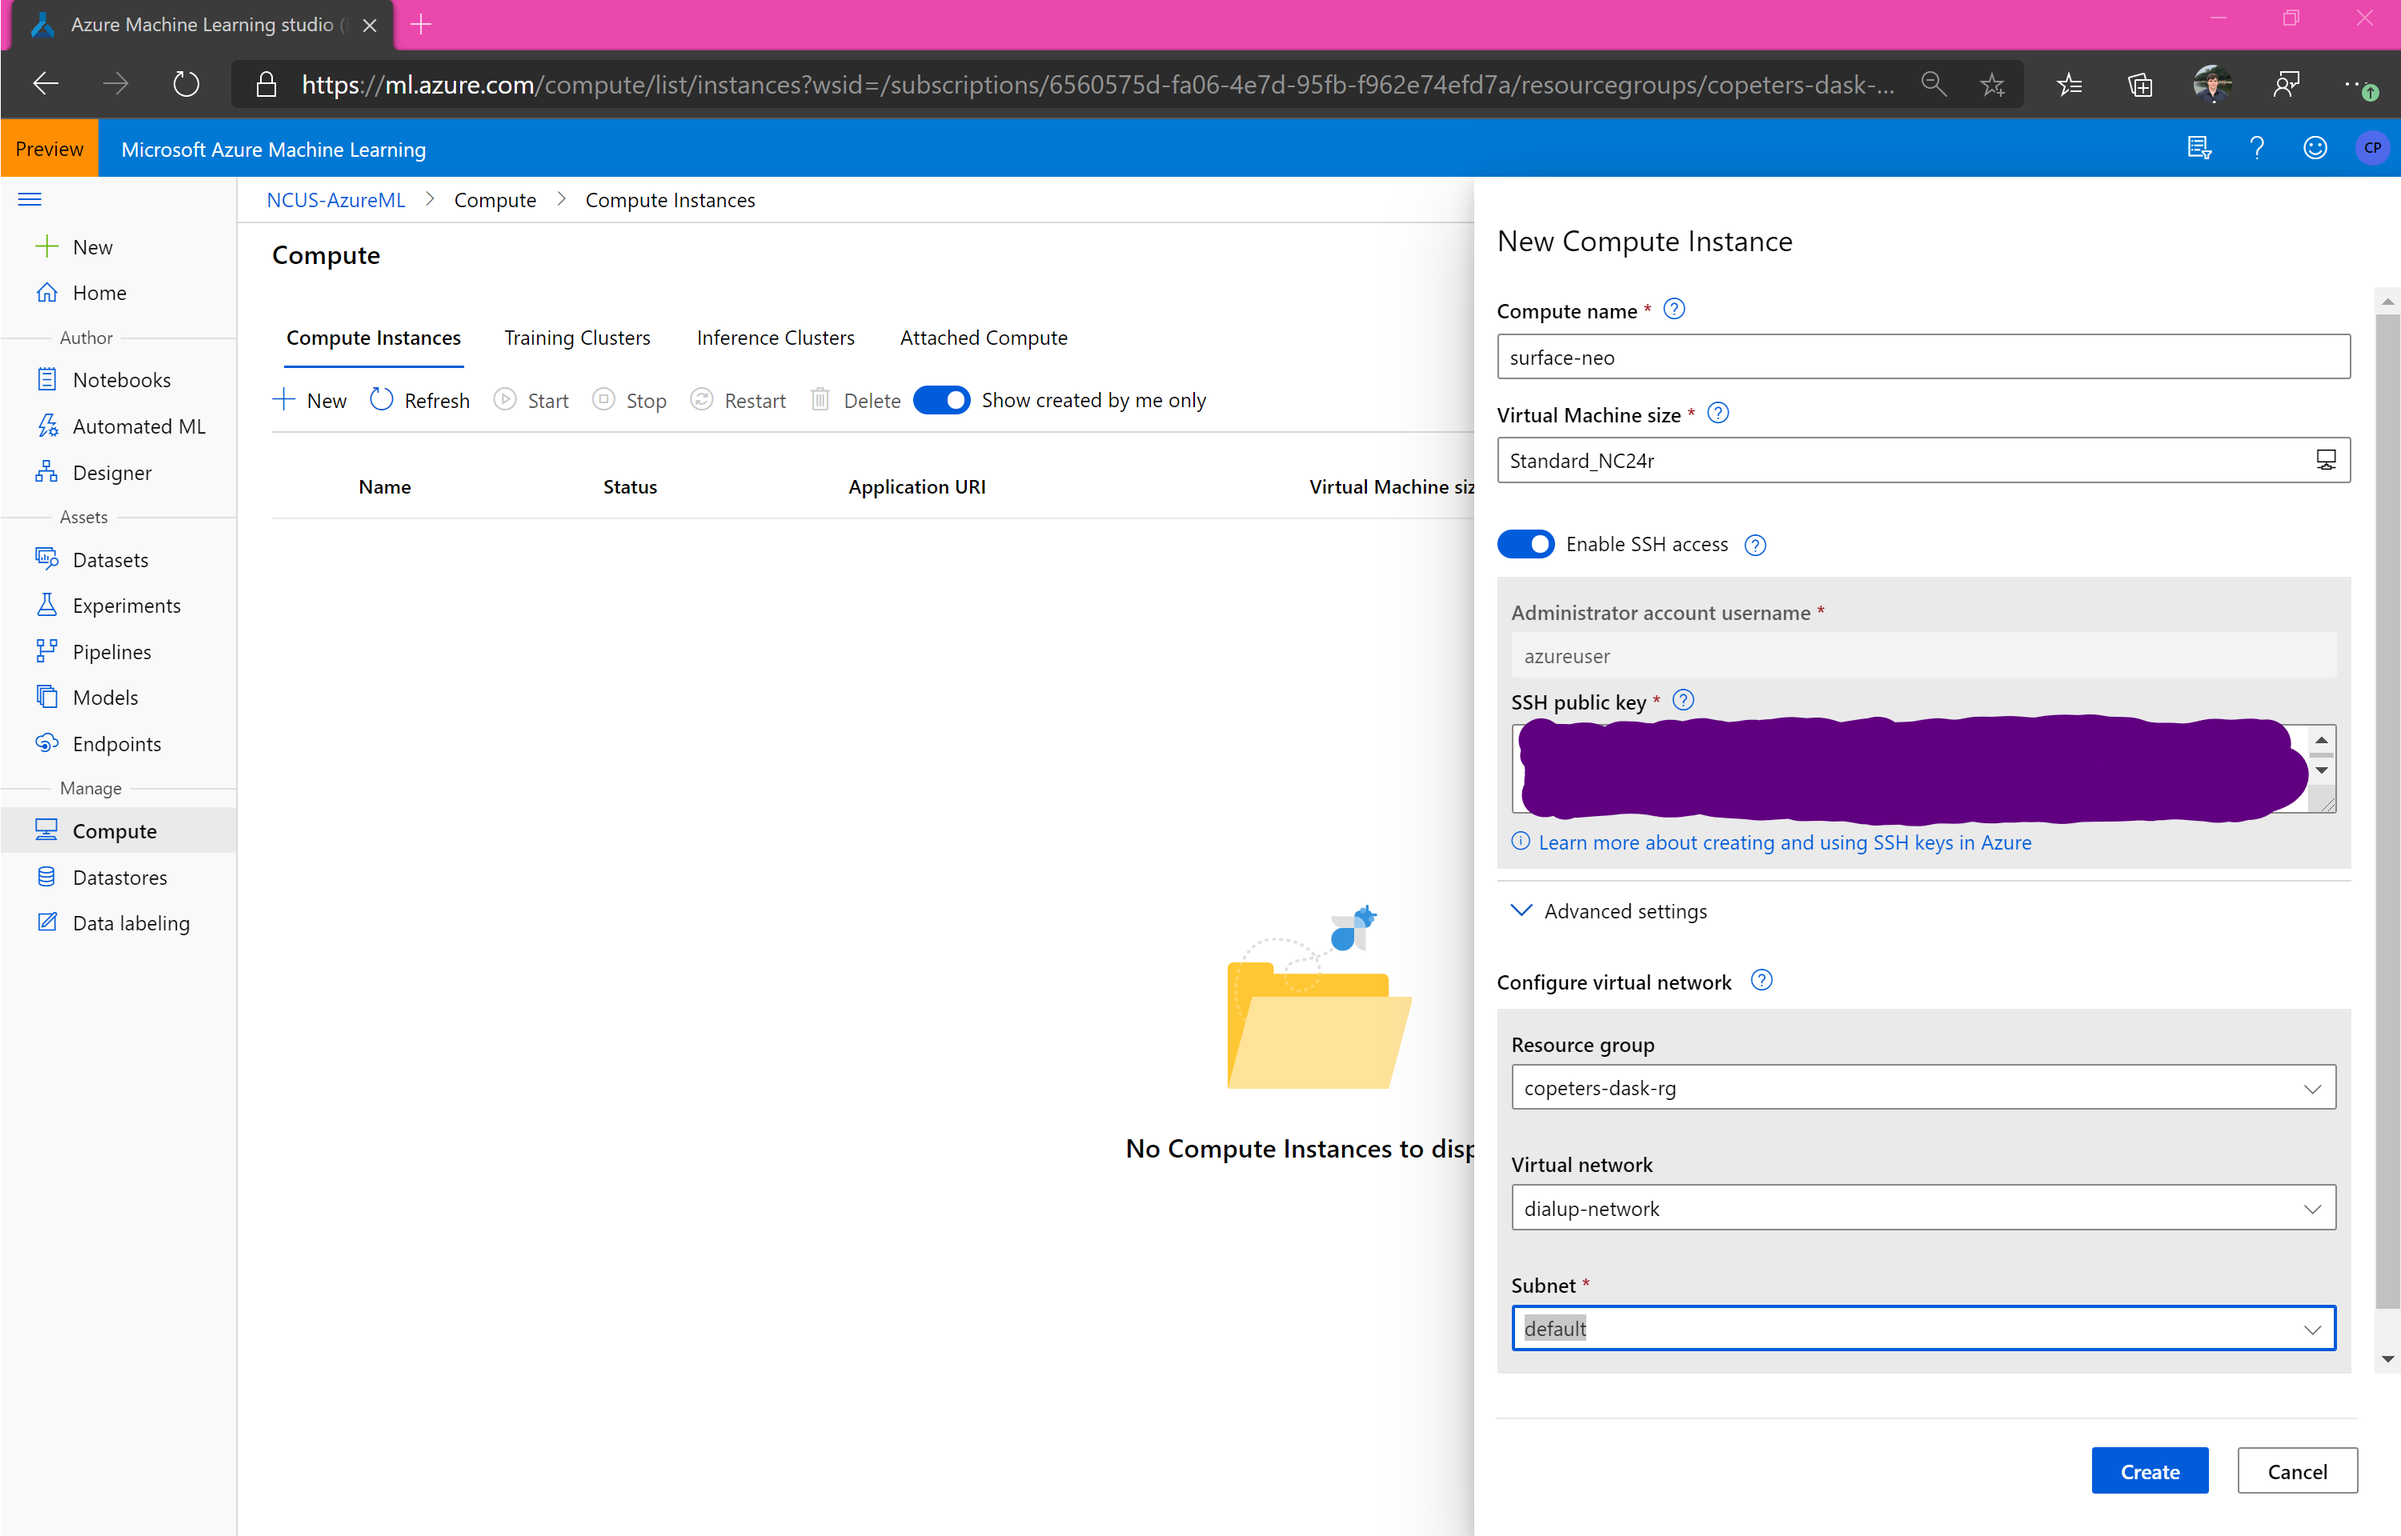
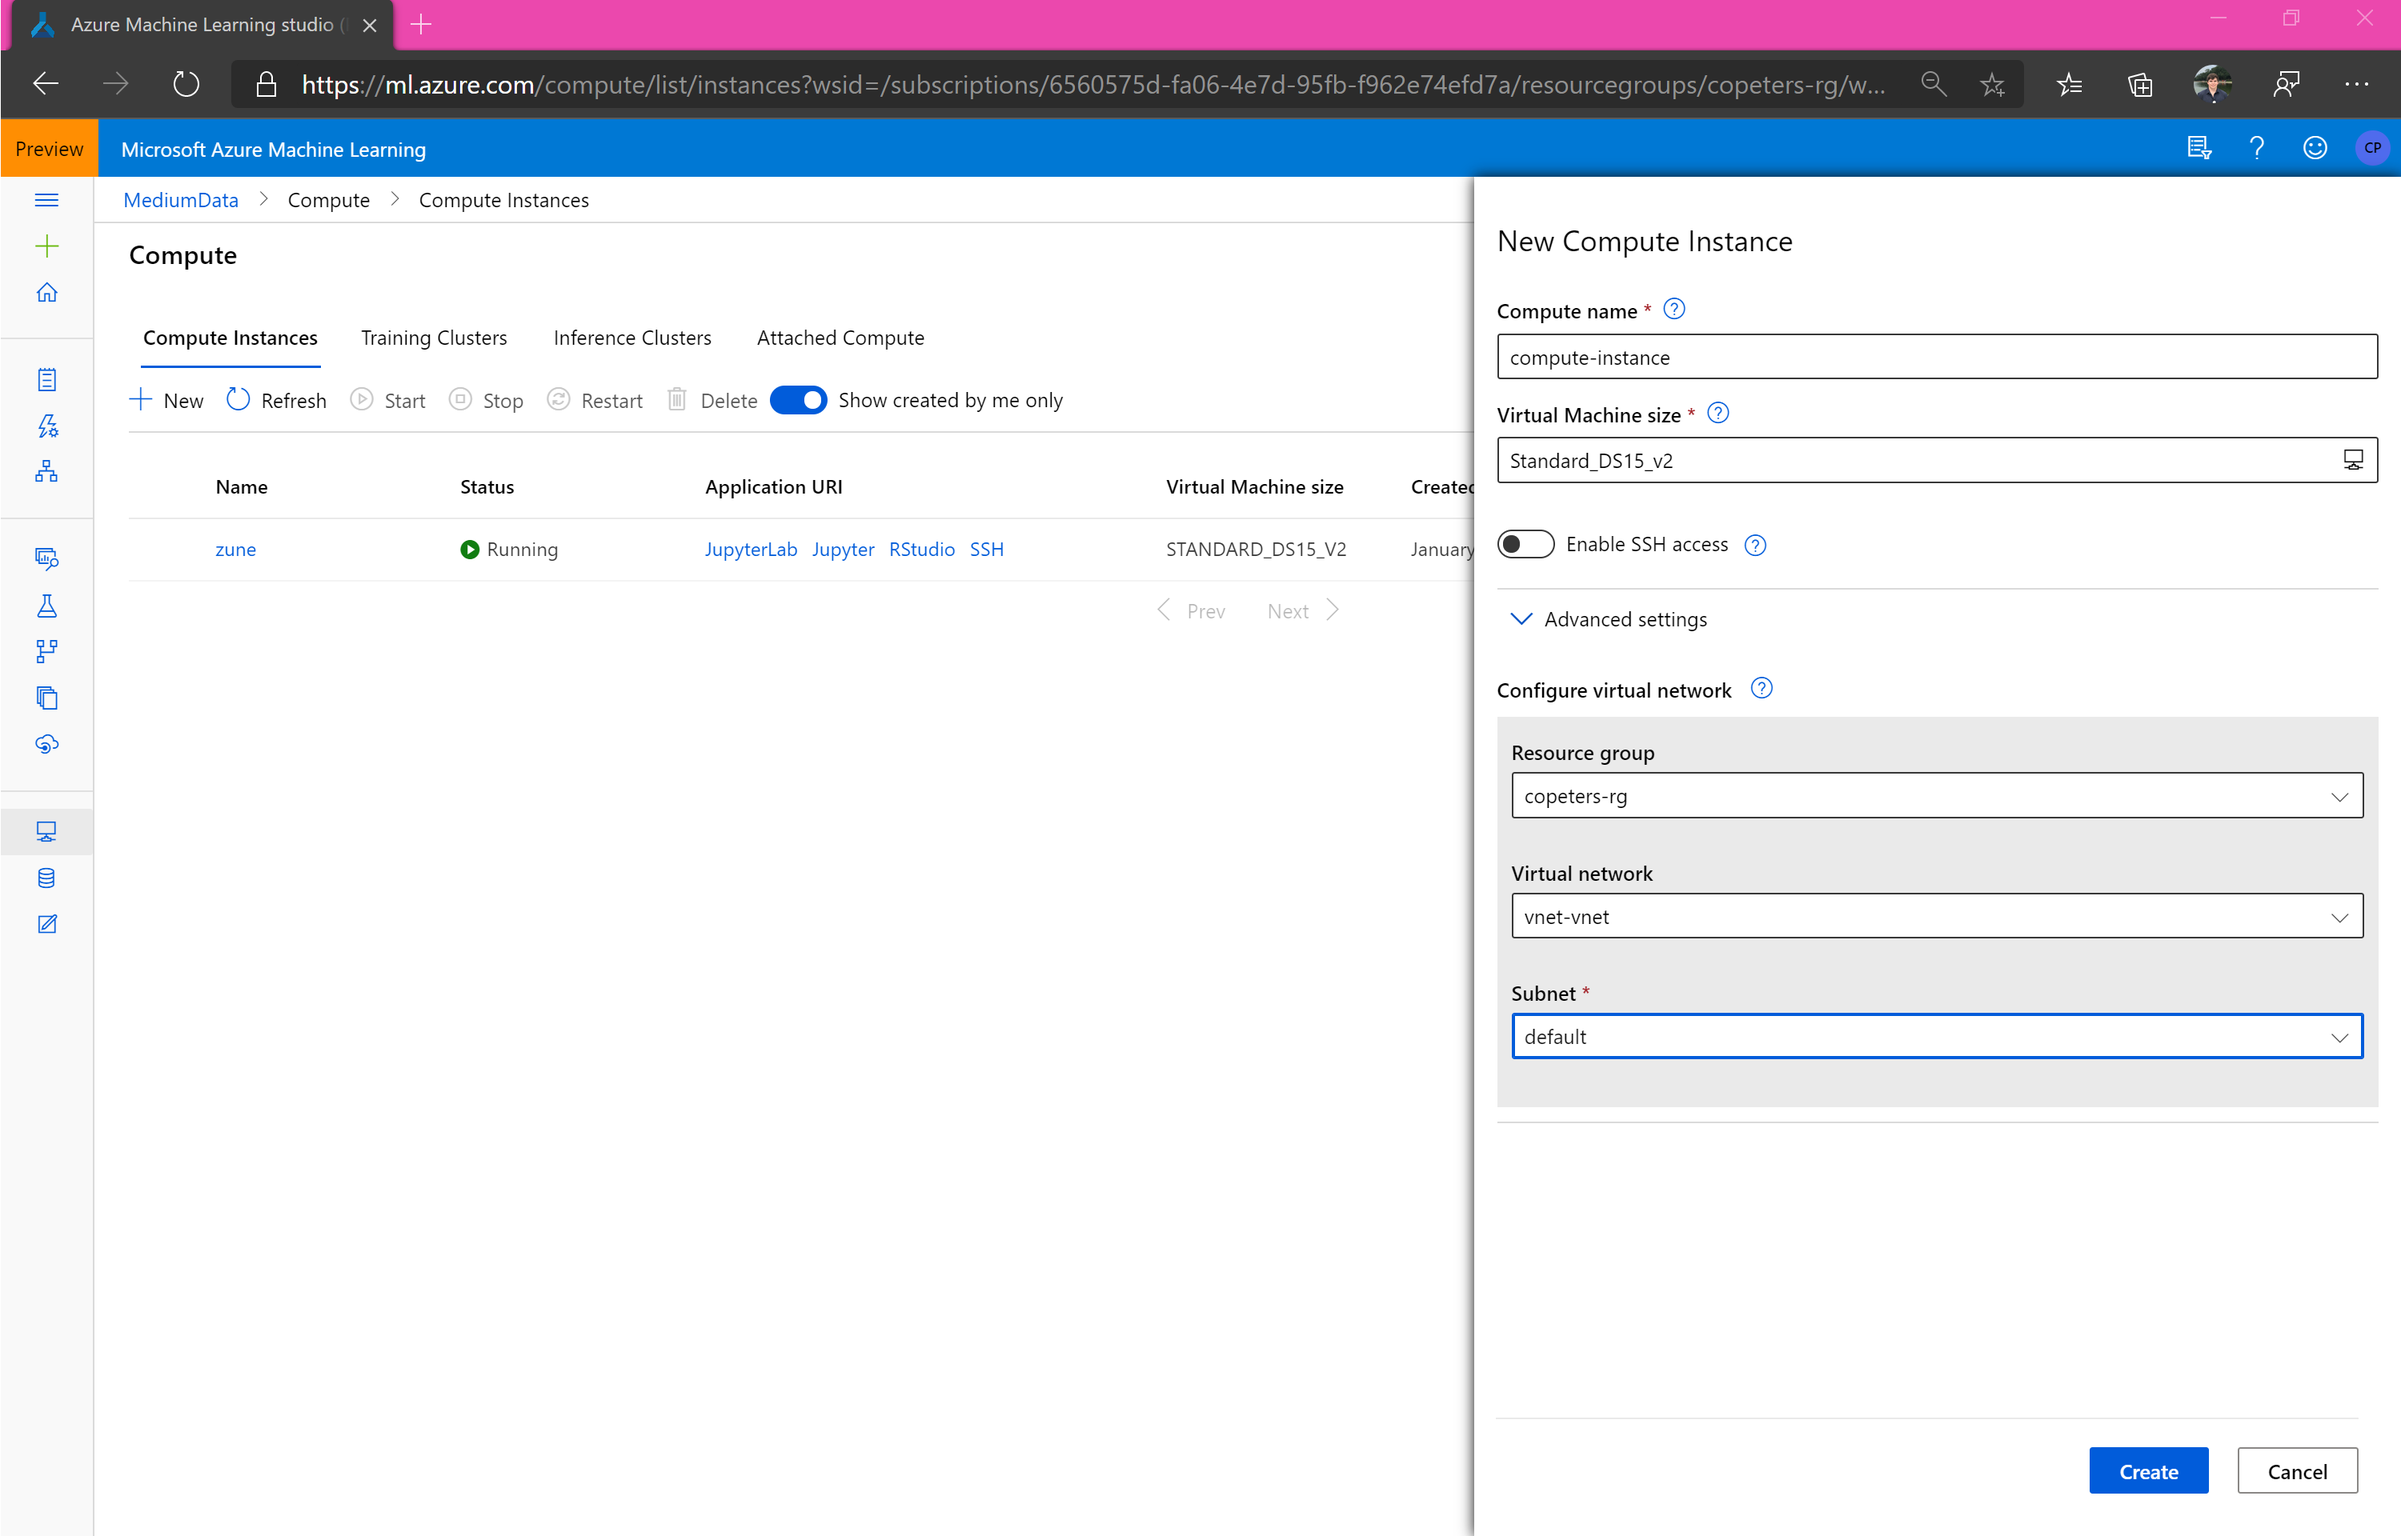
minor update

diff --git a/README.md b/README.md
@@ -32,8 +32,6 @@ Create an Azure ML Compute Instance in the vNET you have created.
 
 **Important**: The size of your Compute Instance will affect the amount of data you can run on 'locally' with Dask. I find a `STANDARD_DS15_V2` works well for ~1 year of data, while a `STANDARD_NC24` works well for ~2 years of data. Adjust the size of data in the notebook as needed for your VM size. In this example, using a GPU machine is wasteful since we are not using the GPUs. Dask can be configured to use GPUs - an example of this is "in progress". 
 
-**Important**: Enabling SSH access is optional and not recommended, despite the misleading screenshot below.
-
 **Warning**: With default subscription quotas, you will not be able to run the notebook as-is. Check your subscription's quota in the region and calculate the maximum size cluster you can use. The default cluster created in this notebook is about the minimum needed to work with the data very quickly without repartitioning the data, but smaller clusters will work. Do not persist the dataframe on smaller clusters, this will harm performance.
 
 ![Compute instance creation](media/instance-create.png)
